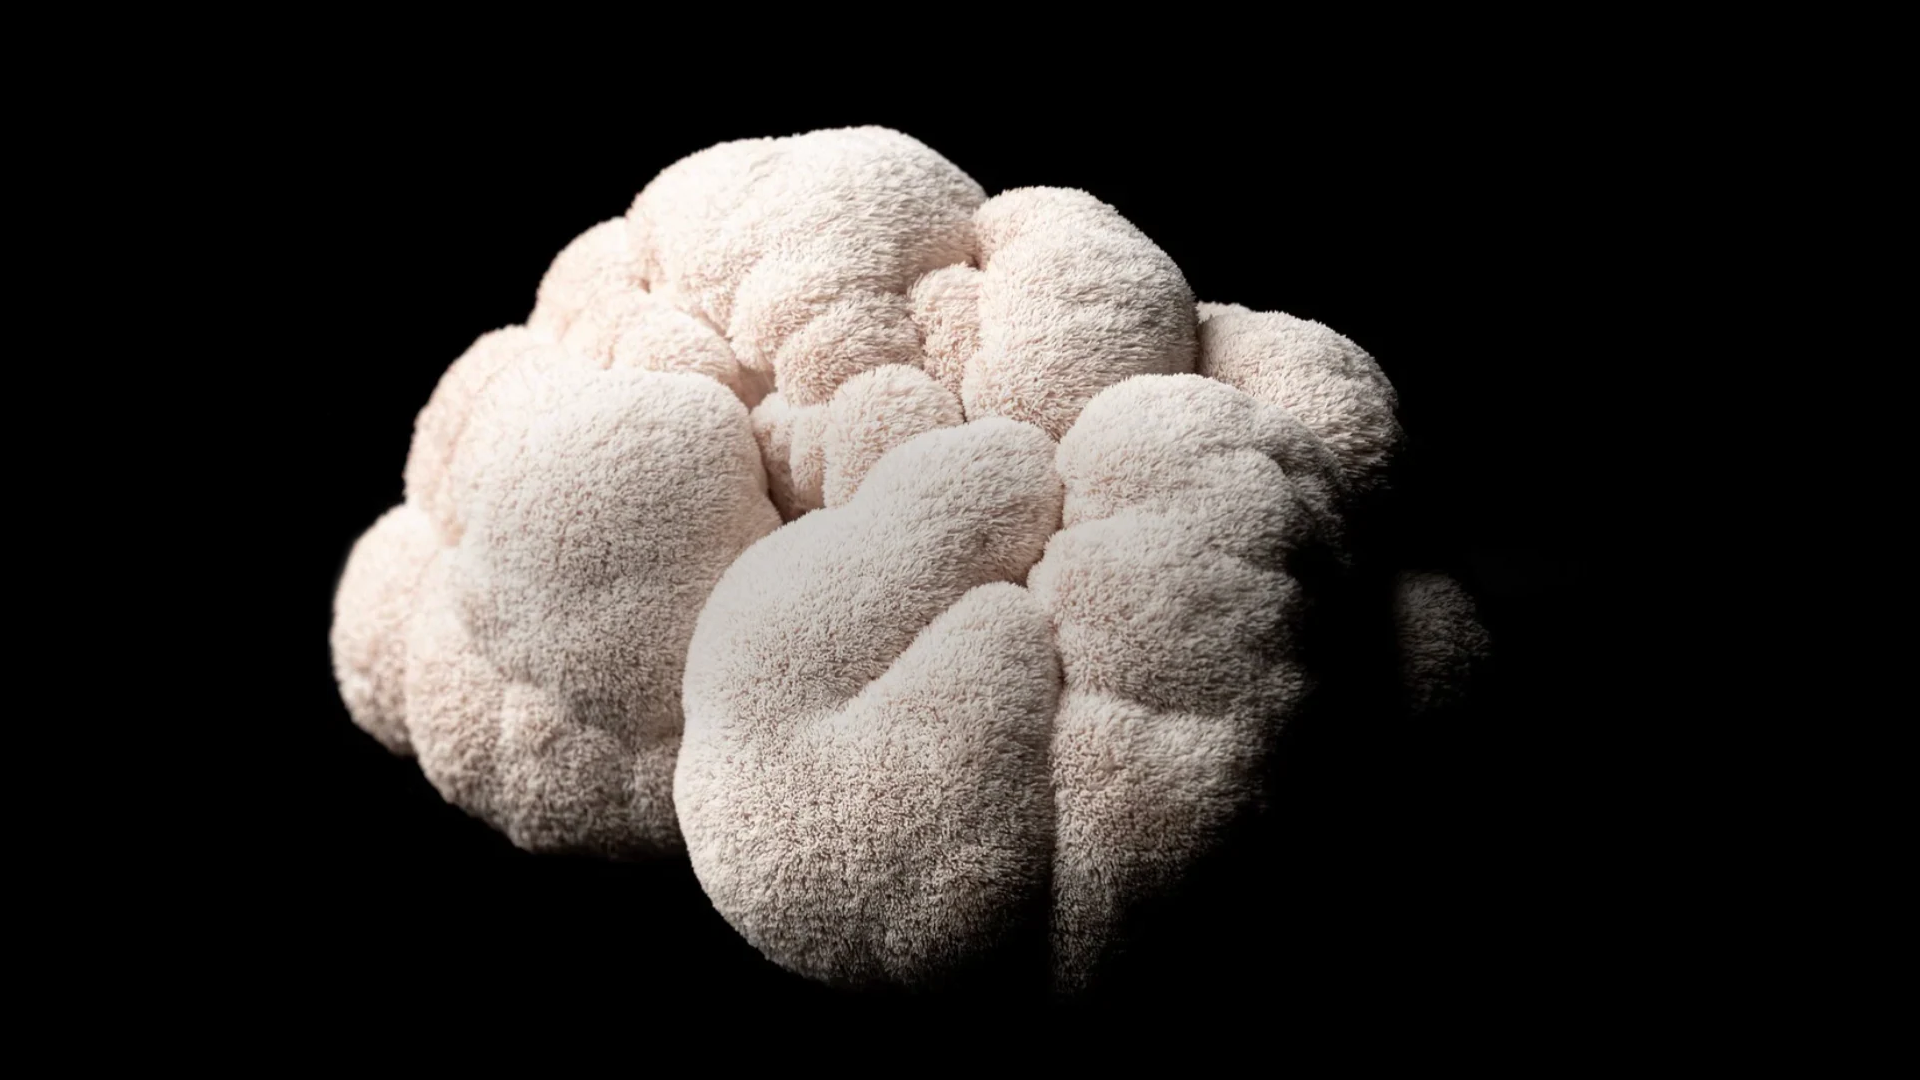
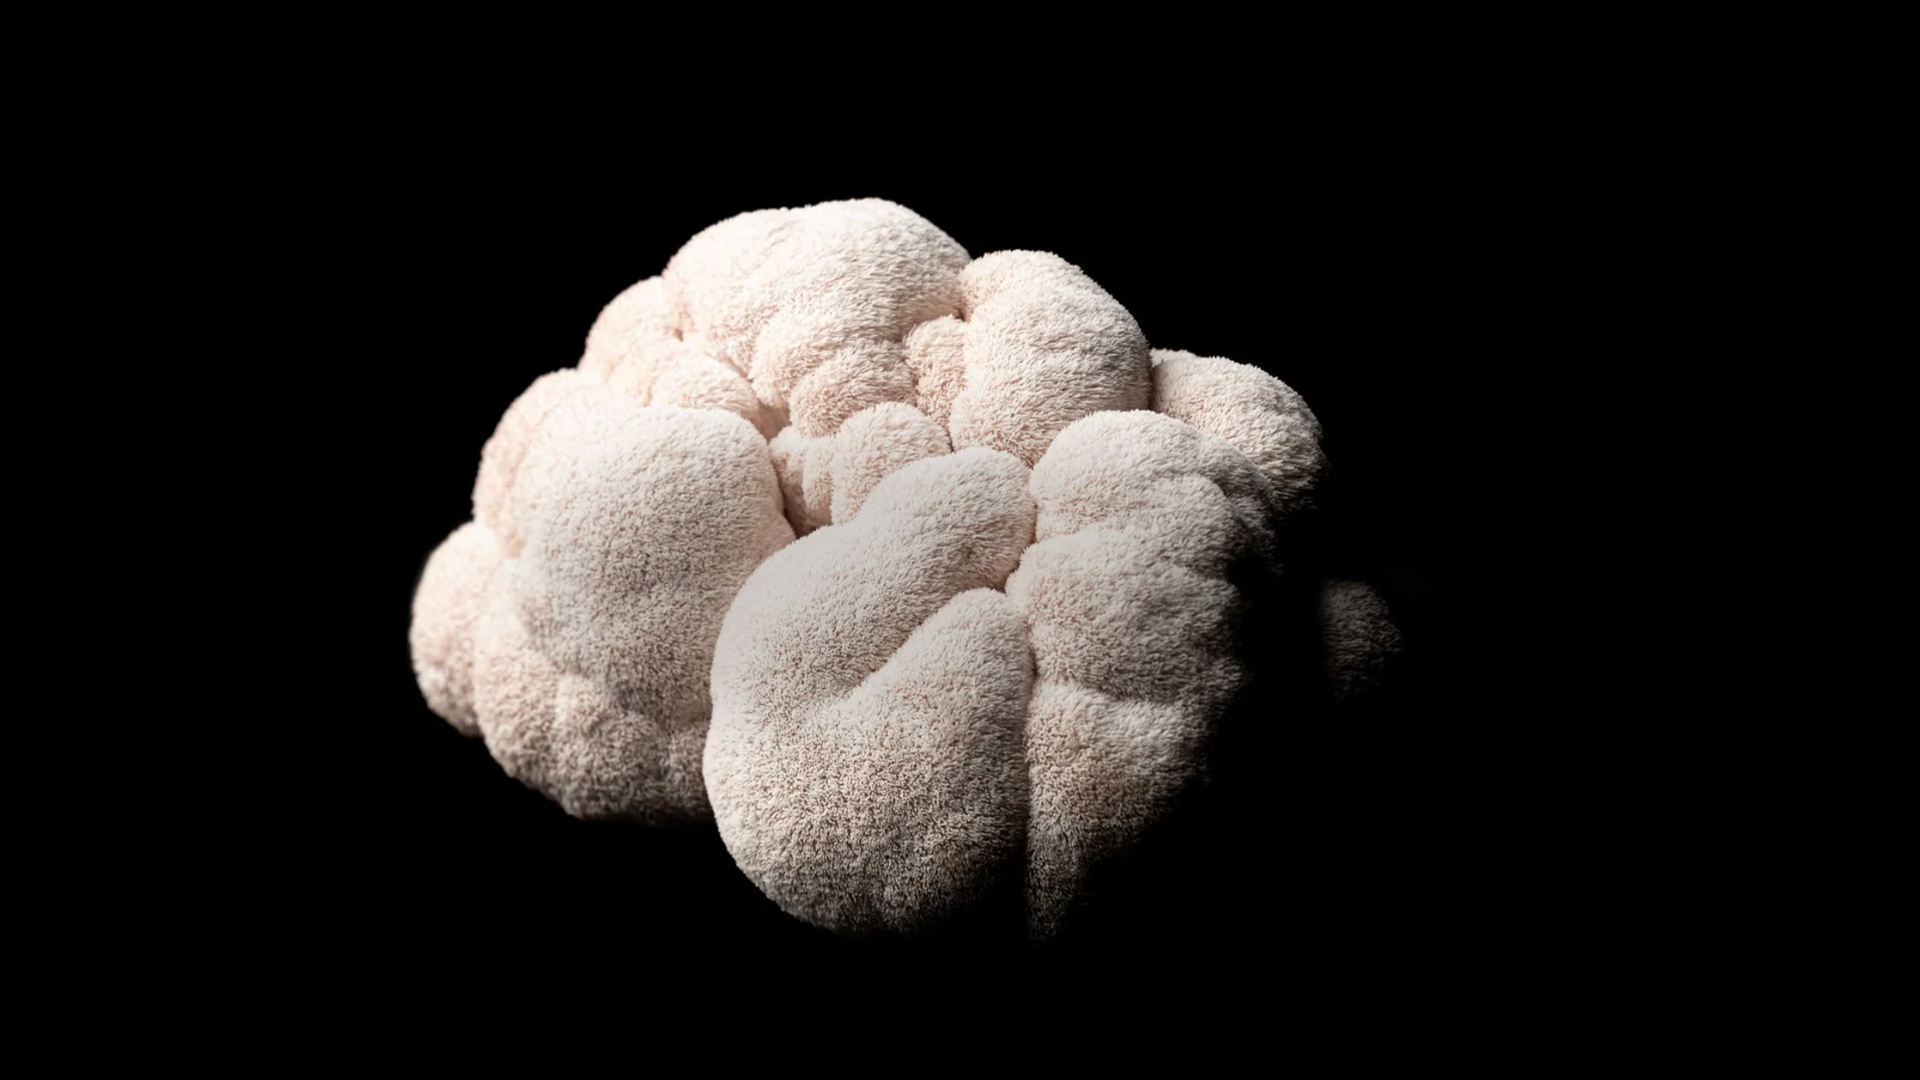
Mobile optimization, contact info, text size adjustments, new images
- Mobile/desktop conditional background images for all sections
- Contact info updated (AS, org.nr, mail, phone, address)
- About section desktop text size reduced to 15px
- New images: hero-bg2-mobile, hero-bg6, hero-bg7
- Favicon moved to public/
- claude-setup.md updated with current state and changelog

Changed region(s): [[0.1562, 0.0917, 0.7812, 0.9167]]

diff --git a/frontend/components/sections/AboutSection.tsx b/frontend/components/sections/AboutSection.tsx
@@ -21,7 +21,7 @@ export default function AboutSection() {
       {/* Background Image */}
       <div className="absolute inset-0">
         <Image
-          src={isMobile ? "/images/hero-bg5-mobile.png" : "/images/hero-bg5.png"}
+          src={isMobile ? "/images/hero-bg2-mobile.png" : "/images/hero-bg7.png"}
           alt="Skogbunn background"
           fill
           className="object-cover"
@@ -30,42 +30,46 @@ export default function AboutSection() {
         />
       </div>
 
-      {/* Header - Top centered, 10px higher */}
-      <div className="absolute left-0 right-0 top-0 flex justify-center z-10" style={{ paddingTop: isMobile ? '80px' : '100px' }}>
-        <h2
-          className={`${isMobile ? 'text-3xl' : 'text-4xl md:text-5xl'} font-merriweather font-light text-cream tracking-wide`}
-          style={{ textShadow: '3px 3px 6px rgba(0, 0, 0, 0.9)' }}
-        >
-          Om Skogbunn
-        </h2>
-      </div>
+      {/* Header - Only shown on mobile */}
+      {isMobile && (
+        <div className="absolute left-0 right-0 top-0 flex justify-center z-10" style={{ paddingTop: '30px' }}>
+          <h2
+            className="text-3xl font-merriweather font-light text-cream tracking-wide"
+            style={{ textShadow: '3px 3px 6px rgba(0, 0, 0, 0.9)' }}
+          >
+            Om Skogbunn
+          </h2>
+        </div>
+      )}
 
-      {/* Content - Starts 20px below header */}
-      <div className={`container mx-auto ${isMobile ? 'px-4' : 'px-6'} relative z-10`} style={{ paddingTop: isMobile ? 'calc(80px + 3rem + 20px)' : 'calc(100px + 3.75rem + 20px)' }}>
-        <div className="text-center">
-          <div className="font-merriweather font-light text-cream" style={{ fontSize: isMobile ? '17px' : '19px', textShadow: '3px 3px 6px rgba(0, 0, 0, 0.9)', lineHeight: '1.8' }}>
-            <p>
-              Skogbunn Mikromusheri dyrker østerssopp og Lions Mane av høy kvalitet<br />
-              på Vårum Gård i Sørum, med økologiske og kortreiste råvarer fra nærområdet.
-            </p>
-            <br />
-            <p>
-              Substratet lager vi selv, av halm fra gården, sagflis fra skogen rundt oss<br />
-              og kaffegrut samlet inn fra lokale kafeer.
-            </p>
-            <br />
-            <p>
-              Vi holder karbonavtrykket lavt ved å gjenvinne brukt substrat som jordforbedring,<br />
-              og solcellene på taket leverer energien som holder produksjonen i gang.
-            </p>
-            <br />
-            <p>
-              Vi leverer fersk, lokalprodusert sopp til<br />
-              restauranter, grossister og privatpersoner.
-            </p>
+      {/* Content - Only shown on desktop */}
+      {!isMobile && (
+        <div className="absolute inset-0 flex items-start justify-center z-10" style={{ paddingTop: '50px' }}>
+          <div className="container mx-auto px-6 text-center">
+            <div className="font-merriweather font-light" style={{ fontSize: '15px', color: '#f5f0e8', textShadow: '3px 3px 6px rgba(0, 0, 0, 0.9)', lineHeight: '1.8' }}>
+              <p>
+                Skogbunn Mikromusheri dyrker østerssopp og Lions Mane av høy kvalitet<br />
+                på Vårum Gård i Sørum, med økologiske og kortreiste råvarer fra nærområdet.
+              </p>
+              <br />
+              <p>
+                Substratet lager vi selv, av halm fra gården, sagflis fra skogen rundt oss<br />
+                og kaffegrut samlet inn fra lokale kafeer.
+              </p>
+              <br />
+              <p>
+                Vi holder karbonavtrykket lavt ved å gjenvinne brukt substrat som jordforbedring,<br />
+                og solcellene på taket leverer energien som holder produksjonen i gang.
+              </p>
+              <br />
+              <p>
+                Vi leverer fersk, lokalprodusert sopp til<br />
+                restauranter, grossister og privatpersoner.
+              </p>
+            </div>
           </div>
         </div>
-      </div>
+      )}
     </section>
   );
 }

diff --git a/frontend/components/sections/HeroSection.tsx b/frontend/components/sections/HeroSection.tsx
@@ -58,7 +58,7 @@ export default function HeroSection() {
       </div>
 
       {/* Navigation Buttons - Bottom position */}
-      <div className="absolute left-0 right-0 bottom-0 z-[60]" style={{ paddingBottom: isMobile ? '60px' : '100px' }}>
+      <div className="absolute left-0 right-0 bottom-0 z-[60]" style={{ paddingBottom: isMobile ? '170px' : '100px' }}>
         <div className={`flex justify-center ${isMobile ? 'gap-4' : 'gap-8'}`}>
           <button
             onClick={() => scrollToSection('about')}

diff --git a/frontend/components/sections/ContactSection.tsx b/frontend/components/sections/ContactSection.tsx
@@ -36,7 +36,7 @@ export default function ContactSection() {
       <div
         className="flex-1 flex items-end justify-start relative z-10"
         style={{
-          paddingBottom: isMobile ? '70px' : '110px',
+          paddingBottom: isMobile ? '170px' : '110px',
           paddingLeft: isMobile ? '20px' : '100px'
         }}
       >

diff --git a/claude-setup.md b/claude-setup.md
@@ -140,7 +140,7 @@ Since GitHub CLI (`gh`) is not available, follow these manual steps:
 1. Go to [github.com](https://github.com) and log in
    - **Username**: Ausmunder
    - **Email**: assmund@gmail.com
-   - **Password**: cB4C#544KadAbtR!
+   - **Password**: Wool8-Ravishing6-Rubble7-Transform4
 
 2. Click the **"+"** icon (top right) → **"New repository"**
 
@@ -493,14 +493,27 @@ git push origin master
 
 ## Changelog
 
+### 2026-02-24
+- GitHub password changed (old password removed from docs)
+- HA SSL access credentials changed
+- claude-setup.md updated with current component/image structure
+- About section desktop text size reduced: 19px → 15px
+- Deployed to skogbunn.com
+
+### 2026-01-23 — Website Complete (v2.0)
+- ✅ Static export configured and deployed to skogbunn.com
+- ✅ All sections implemented (Hero, About, Contact)
+- ✅ Contact info: Skogbunn Mikromusheri AS, org.nr, mail, phone, address
+- ✅ Mobile optimization: separate background images, responsive sizing
+- ✅ Favicon added
+- ✅ README updated with full documentation
+
 ### 2026-01-23 - Initial Setup
 - ✅ Project initialized with Next.js and Express
 - ✅ Git repository created
 - ✅ Server access verified (SFTP only)
 - ✅ SSL confirmed active
 - ✅ Documentation created
-- ⏳ GitHub repository pending creation
-- ⏳ First deployment pending
 
 ---
 
@@ -541,9 +554,11 @@ git push origin master
 - Monospace: Geist Mono
 
 **Images**:
-- Hero background: Beautiful oyster mushroom photo (`/images/hero-bg.png`)
-- Logo: Skogbunn Mikromusheri in stylish handwritten font (`/images/logo.png`)
-- Both optimized with Next.js Image component
+- Hero section: `/images/hero-bg.png` (desktop) / `/images/hero-bg-mobile.png` (mobile)
+- About section: `/images/hero-bg7.png` (desktop) / `/images/hero-bg2-mobile.png` (mobile)
+- Contact section: `/images/hero-bg3.jpg` (desktop) / `/images/hero-bg3-mobile.png` (mobile)
+- Logo: `/images/logo.png` (CSS white filter applied)
+- Favicon: `public/favicon.ico`
 
 #### Component Structure
 
@@ -554,16 +569,23 @@ frontend/
 │   ├── page.tsx            # Main page with all sections
 │   └── globals.css         # Global styles and color palette
 ├── components/
-│   ├── Navigation.tsx      # Sticky navigation with logo and buttons
 │   ├── Footer.tsx          # Footer with "skogbunn 2026"
 │   └── sections/
-│       ├── HeroSection.tsx     # Full-screen hero with background image
-│       ├── AboutSection.tsx    # About content section
-│       └── ContactSection.tsx  # Contact information section
+│       ├── HeroSection.tsx     # Full-screen hero, mobile/desktop bg, nav buttons at bottom
+│       ├── AboutSection.tsx    # About section, desktop shows text, mobile shows header only
+│       └── ContactSection.tsx  # Contact info (AS, org.nr, mail, phone, address) + footer
 └── public/
+    ├── favicon.ico
     └── images/
-        ├── hero-bg.png     # Oyster mushroom background
-        └── logo.png        # Skogbunn logo (converted to white via CSS)
+        ├── hero-bg.png         # Desktop hero bg
+        ├── hero-bg-mobile.png  # Mobile hero bg
+        ├── hero-bg2.png        # (spare)
+        ├── hero-bg2-mobile.png # Mobile about bg
+        ├── hero-bg3.jpg        # Desktop contact bg
+        ├── hero-bg3-mobile.png # Mobile contact bg
+        ├── hero-bg6.png        # (spare)
+        ├── hero-bg7.png        # Desktop about bg
+        └── logo.png            # Skogbunn logo (CSS white filter)
 ```
 
 #### Technical Implementation
@@ -615,29 +637,43 @@ npx serve out
 
 ### Current Status
 
-- ✅ Project initialized with Next.js 16 and Express
+- ✅ Project initialized with Next.js and Express
 - ✅ Git repository created and configured
-- ✅ GitHub repository created: `https://github.com/Ausmunder/Skogbunn-web`
-- ✅ All commits pushed to GitHub
-- ✅ Server access verified (SFTP only)
-- ✅ SSL confirmed active
-- ✅ Website design fully implemented
-- ✅ Images added (hero background and logo)
-- ✅ Navigation fully functional with scroll-to-section
-- ✅ Color palette and typography configured
-- ⏳ Content for About and Contact sections pending
-- ⏳ First deployment to skogbunn.com pending
+- ✅ GitHub repository: `https://github.com/Ausmunder/Skogbunn-web`
+- ✅ Server access verified (SFTP only, shared hosting)
+- ✅ SSL active (managed by hosting provider)
+- ✅ Website fully implemented and deployed to skogbunn.com
+- ✅ Static export (Next.js `output: 'export'`) working
+- ✅ Mobile optimization complete (separate mobile backgrounds, responsive layout)
+- ✅ Contact info populated (AS, org.nr, mail, phone, address)
+- ✅ Favicon added
+- ✅ About section content filled in (Norwegian text, desktop only)
+- ✅ About section text size: 15px desktop
+- ✅ All changes committed and pushed to GitHub
 
-### Recent Updates (January 23, 2026)
+### Recent Updates
 
-1. **Initial Setup** - Next.js frontend and Express backend
-2. **Design Implementation** - Scroll-snap sections, navigation, footer
-3. **Images Added** - Hero background and logo with white color filter
-4. **Navigation Refinement** - Logo repositioned to top left, buttons centered
-5. **Typography** - Merriweather font added for navigation
-6. **Layout Finalization** - Logo size increased, button positioning optimized
+#### 2026-02-24
+- GitHub password changed (credentials updated in this doc)
+- HA SSL access changed
+
+#### 2026-01 — 2026-02 (commits ca1f4ae → bbfd3b3)
+1. **Static export fix** (`ca1f4ae`) — `output: 'export'` configured, build working
+2. **Contact info** (`c76cf58`) — Added company name, org.nr, email, phone, address
+3. **Mobile optimization** (`fb4c2d9`) — Separate mobile bg images, responsive padding/font sizes
+4. **About text size** (`5ecd82f`) — Font size adjusted to 19px desktop
+5. **README updated** (`bbfd3b3`) — Comprehensive documentation
+6. **New images** — hero-bg2-mobile.png, hero-bg6.png, hero-bg7.png added
+7. **Favicon** — Added to public/
+
+#### January 23, 2026 — Initial build
+1. Next.js frontend and Express backend setup
+2. Scroll-snap sections (Hero, About, Contact)
+3. Skogbunn color palette and Merriweather typography
+4. Logo (top centered, white CSS filter), nav buttons at bottom of hero
+5. Hero background image with mobile/desktop variants
 
 ---
 
-**Last Updated**: January 23, 2026
-**Version**: 2.0.0 (Website Design Complete)
+**Last Updated**: 2026-02-24
+**Version**: 2.1.0
